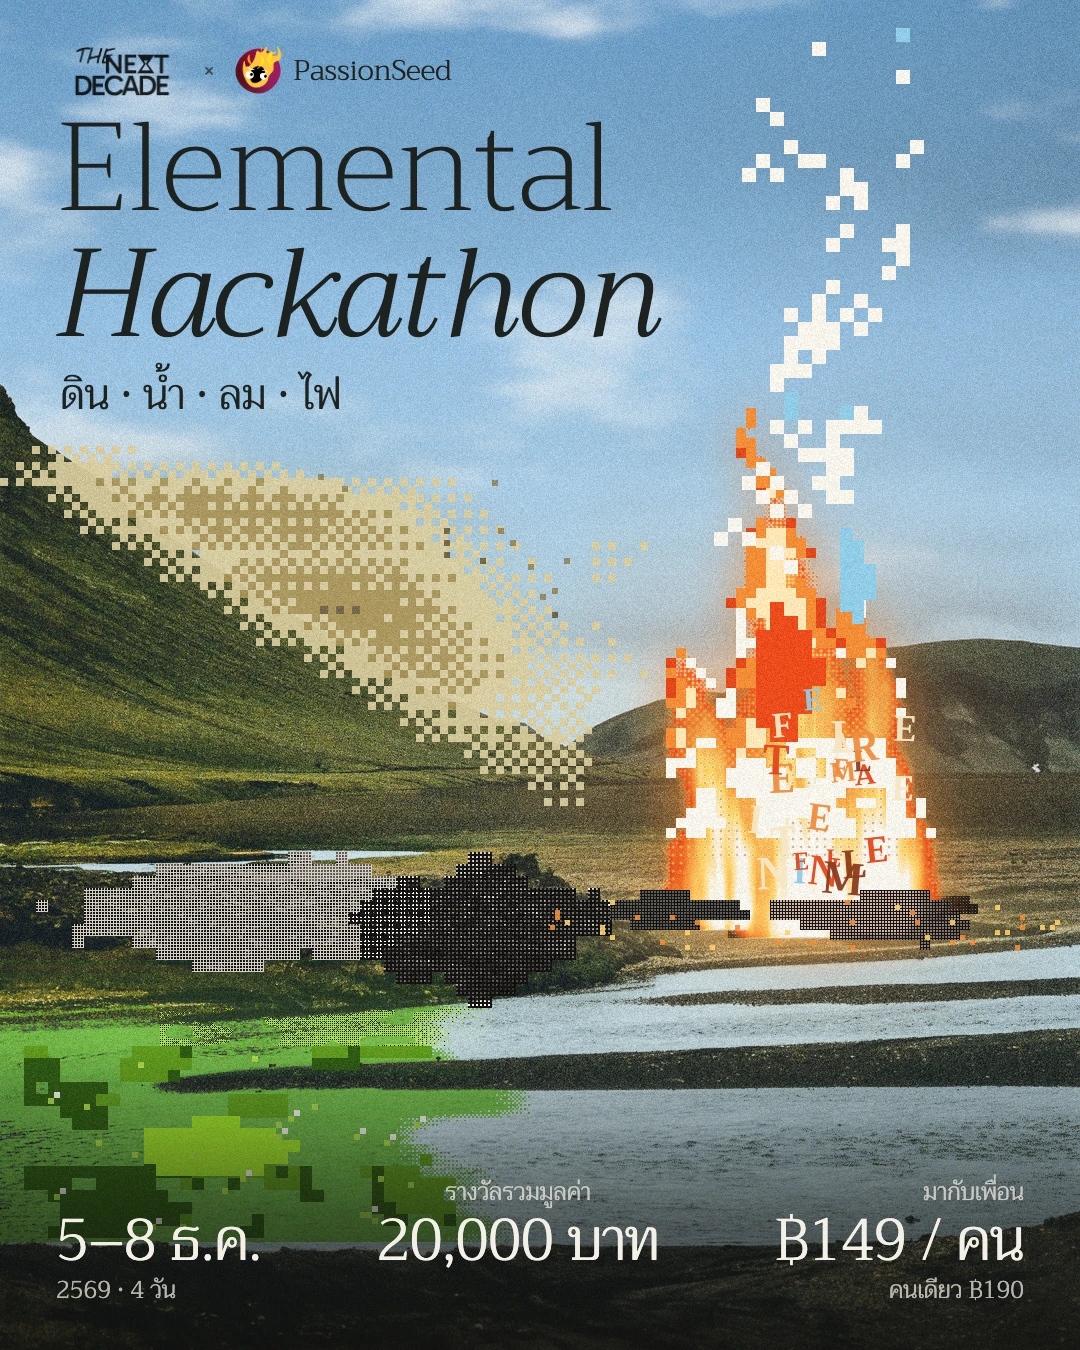
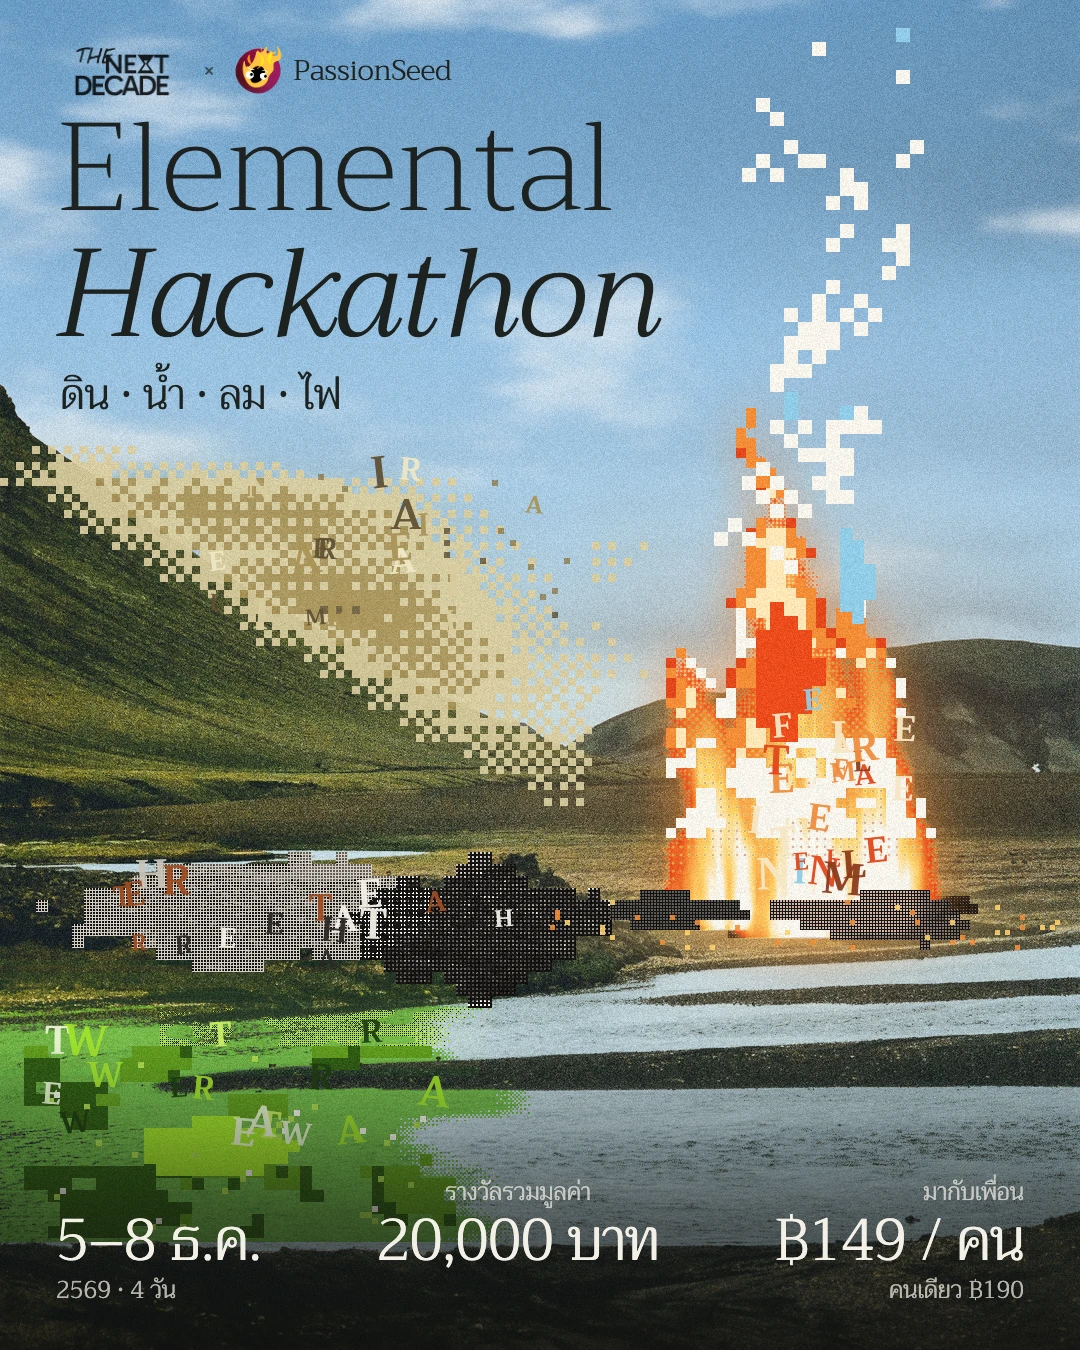
feat(hackathon): letters breaking out of every Elemental element
Saved locally; not pushed. Like the fire, each element now carries its
own name in scattered serif capitals and its own colours: AIR in the
smog, EARTH in the waste on the bank, WATER in the toxic green. Grey sky
is the chosen version (Angpao, 2026-11-19).

diff --git a/components/hackathon/poster/elemental/ElementalKeyPoster.tsx b/components/hackathon/poster/elemental/ElementalKeyPoster.tsx
@@ -28,25 +28,36 @@ const PLATES = {
   blue: "/hackathon/poster/elemental/plate-key-blue.png",
 } as const;
 
-/** Serif capitals breaking out of the fire, as if it were made of text. */
-function fireLetters() {
-  let a = 1234567;
+/**
+ * Serif capitals breaking out of each element, as if it were made of text:
+ * the element's own name, in its own colours, scattered inside its area.
+ */
+function elementLetters(word: string, box: [number, number, number, number], colours: string[], count: number, seed: number) {
+  let a = seed;
   const r = () => {
     a = (a * 1103515245 + 12345) % 2147483648;
     return a / 2147483648;
   };
-  const word = "ELEMENTALFIRE";
-  const colours = ["#f08a3c", "#f6e6c4", "#8a3a1c", "#8ecbe6", "#e2461b"];
-  return Array.from({ length: 24 }, (_, i) => ({
+  const [x0, y0, w, h] = box;
+  return Array.from({ length: count }, (_, i) => ({
     ch: word[i % word.length],
-    x: 712 + r() * 190,
-    y: 700 + r() * 200,
+    x: x0 + r() * w,
+    y: y0 + r() * h,
     size: 22 + Math.round(r() * 22),
     fill: colours[Math.floor(r() * colours.length)],
     rotate: (r() - 0.5) * 16,
   }));
 }
-const LETTERS = fireLetters();
+const LETTERS = [
+  // Fire: in the flame.
+  ...elementLetters("ELEMENTALFIRE", [712, 700, 190, 200], ["#f08a3c", "#f6e6c4", "#8a3a1c", "#8ecbe6", "#e2461b"], 24, 1234567),
+  // Air: in the smog over the ridge.
+  ...elementLetters("AIRAIRELEMENTAL", [200, 470, 360, 170], ["#efe7c4", "#a89155", "#5f4f33", "#d8cb9c"], 18, 7654321),
+  // Earth: in the waste on the bank.
+  ...elementLetters("EARTHEARTH", [100, 880, 480, 100], ["#f3efe6", "#9c4a1f", "#2b2824", "#c9c3b8"], 16, 2468135),
+  // Water: in the toxic green.
+  ...elementLetters("WATERWATER", [40, 1040, 380, 110], ["#e9f6d4", "#c8ee64", "#1f3d12", "#9fe22b"], 16, 1357913),
+];
 
 /**
  * One of the three facts at the bottom: a small line, the big number, a
